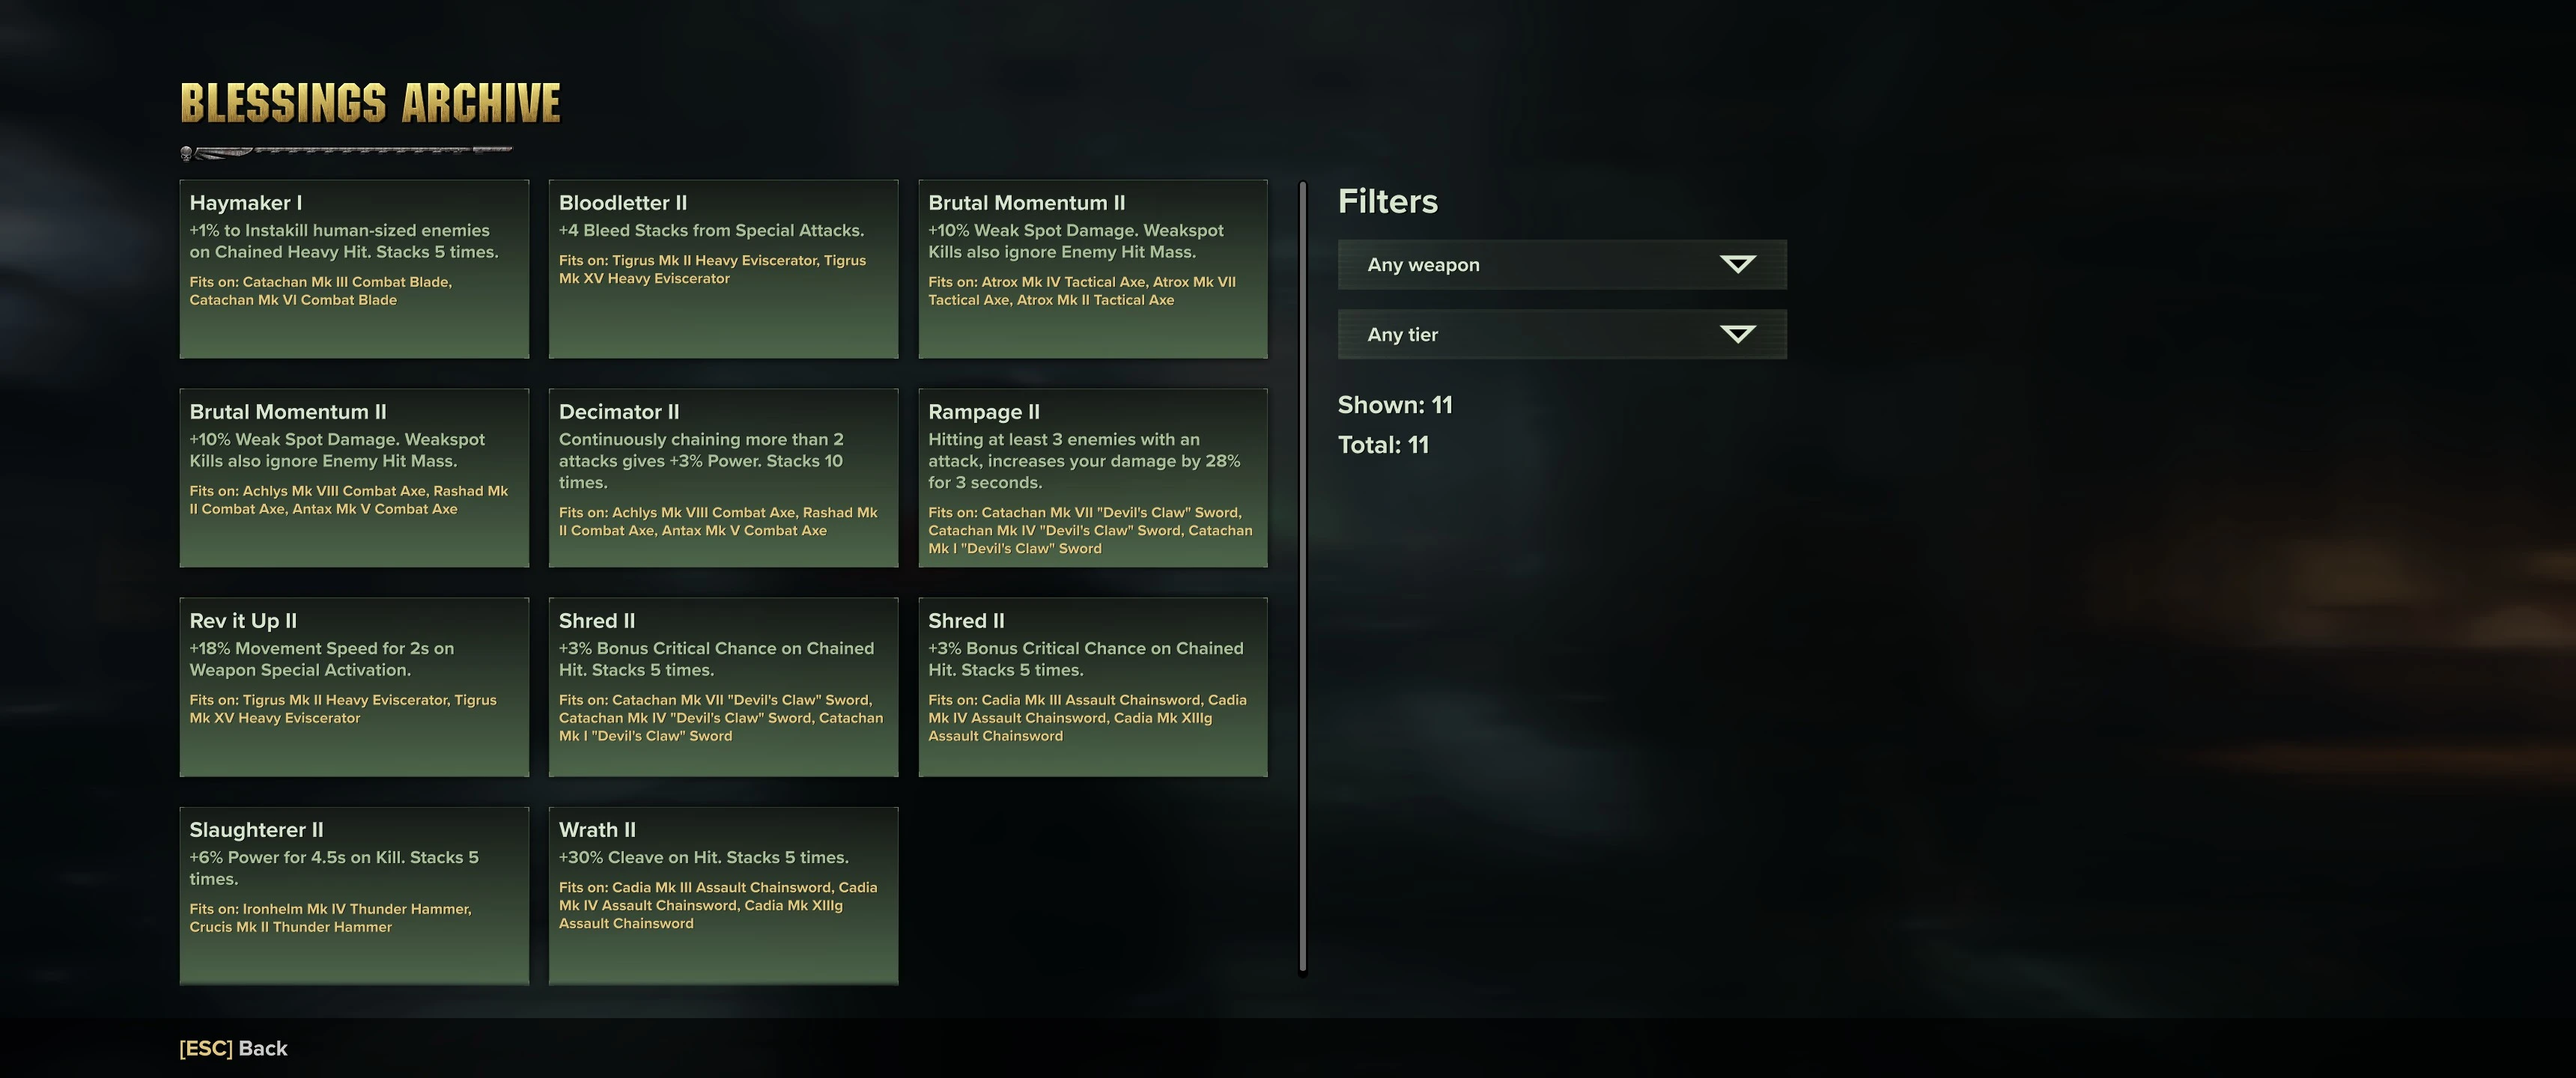
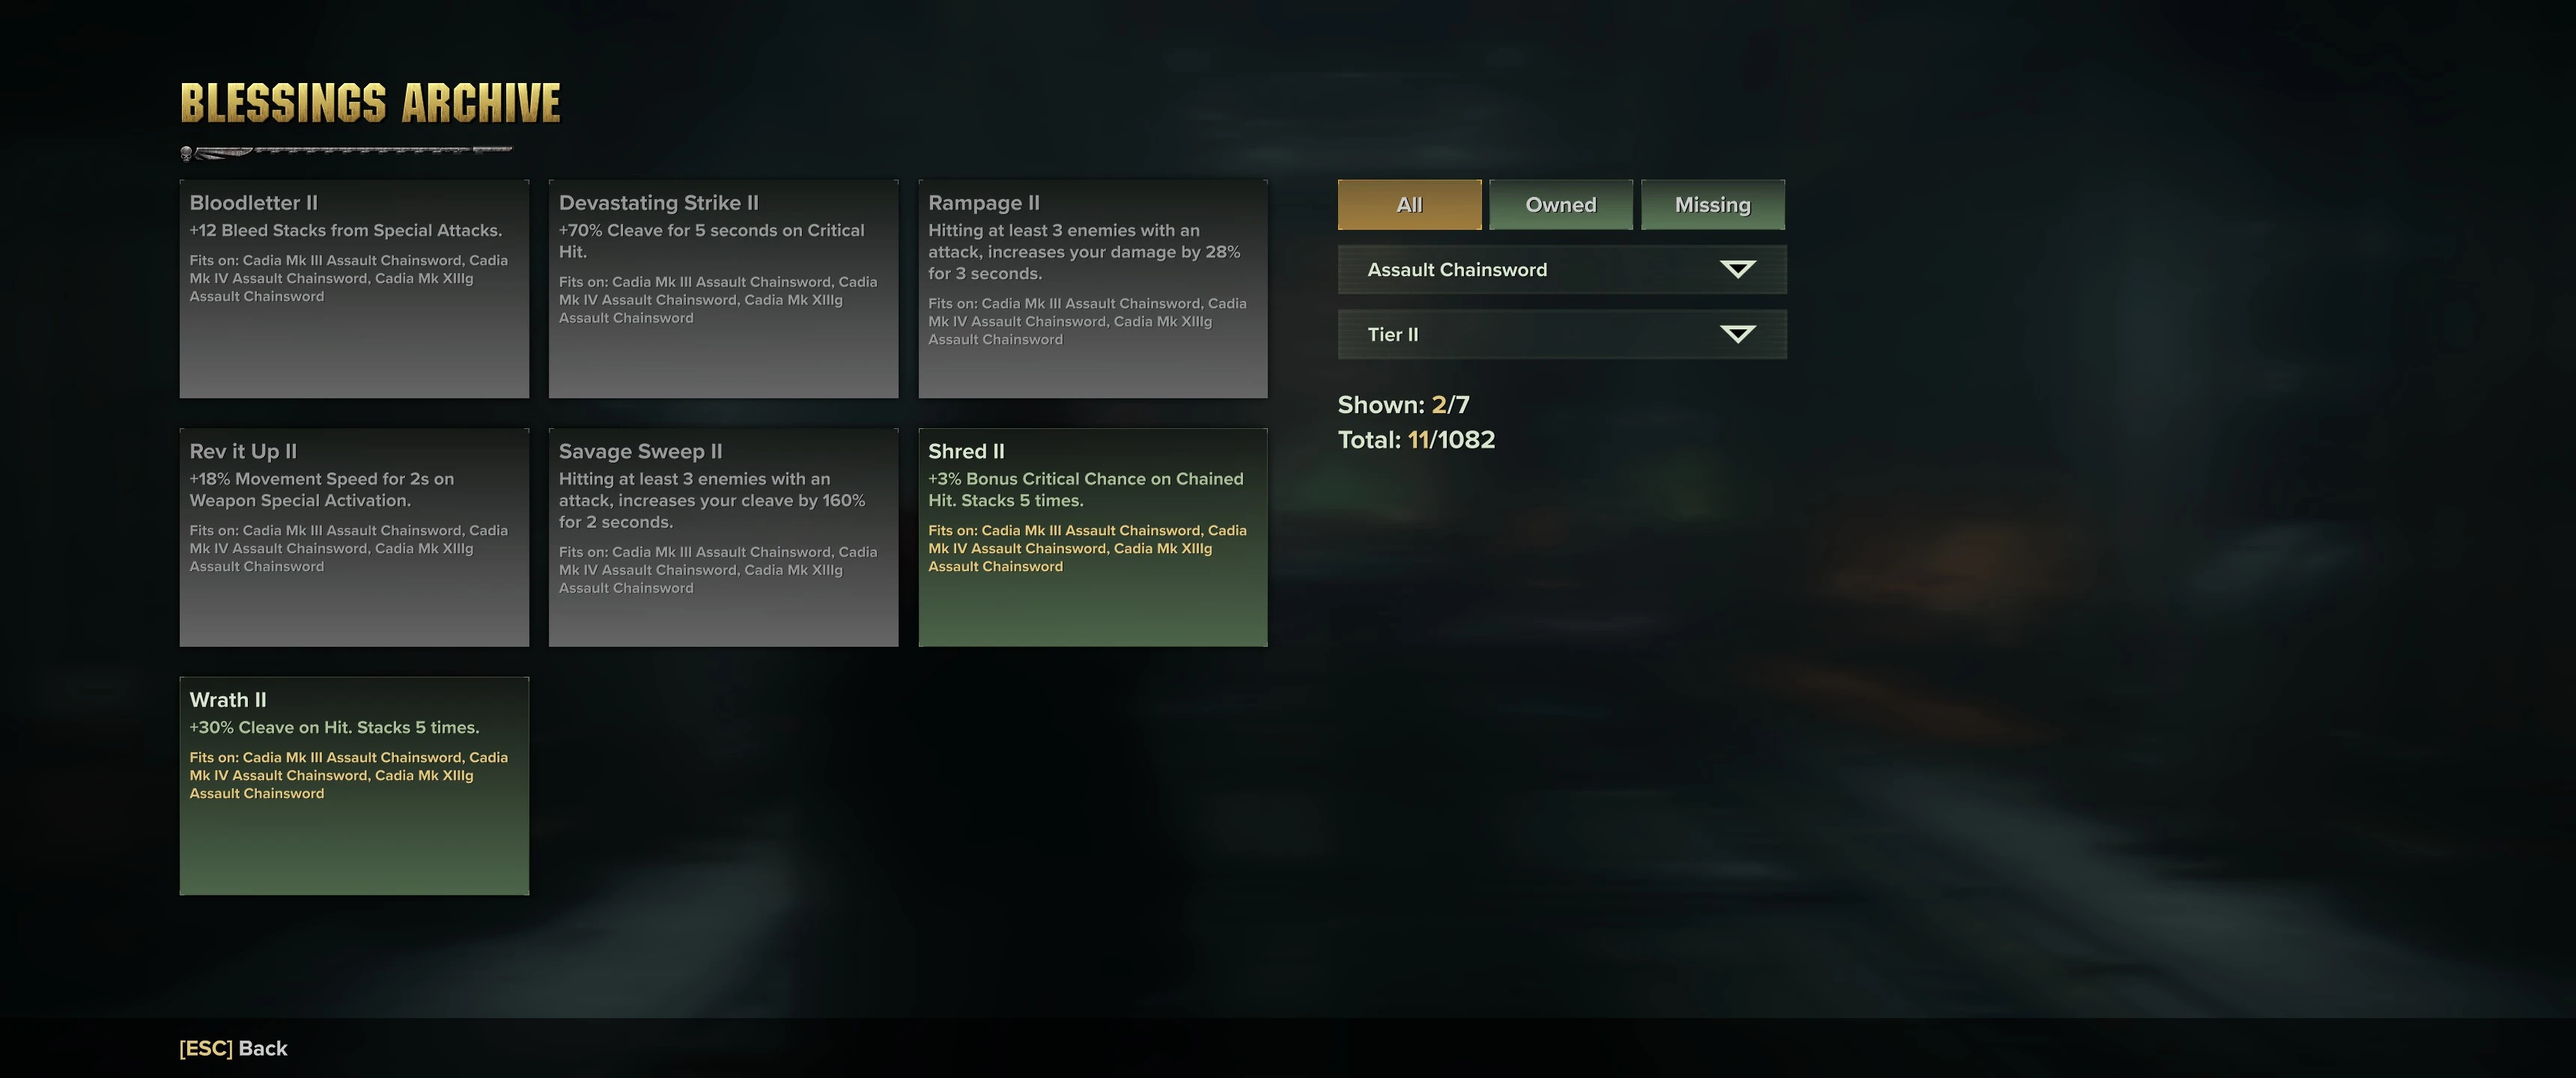
Update README

diff --git a/README.md b/README.md
@@ -1,7 +1,11 @@
 # Blessings Archive
-Blessings Archive is a modification for Warhammer 40.000 Darktide that adds a custom Blessings Archive screen that displays all your (currently unfitted) blessings. You can toggle the screen with a hotkey (F6 by default, configurable from the mod options).
+Blessings Archive is a modification for Warhammer 40.000 Darktide that adds a custom Blessings 
+Archive screen that displays all weapon blessings available in the game. You can toggle the screen 
+with a hotkey (F6 by default, configurable from the mod options).
 
-Information about blessings includes title, rarity, description, and a list of fitting weapons. Blessings are sorted by name and rarity, and you can further filter them down by weapon category and rarity.
+Information about blessings includes title, rarity, description, and a list of compatible weapons. 
+Blessings are sorted by name and rarity, and you can further filter them down by weapon category, 
+rarity and earned/unearned state.
 
 ![](./screenshots/ui.png)
 
